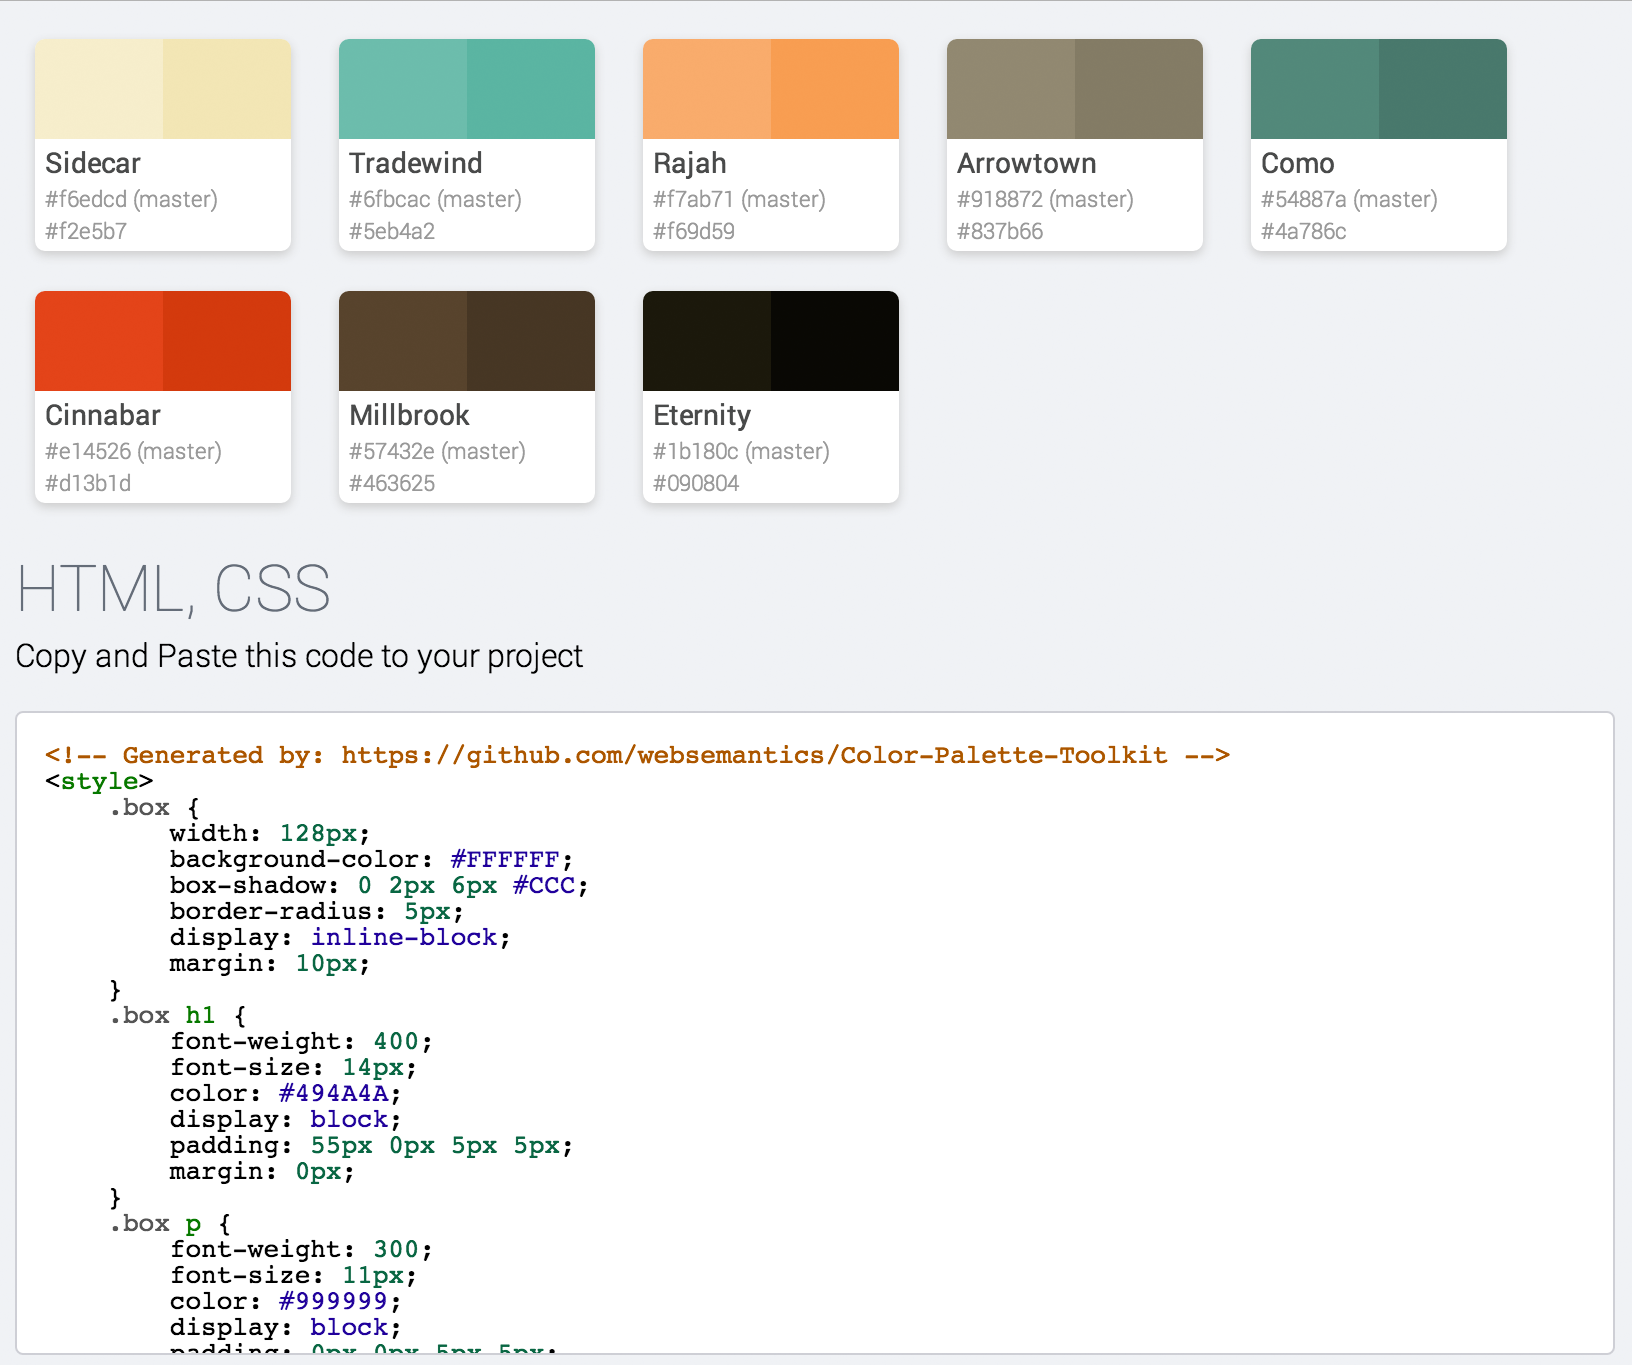
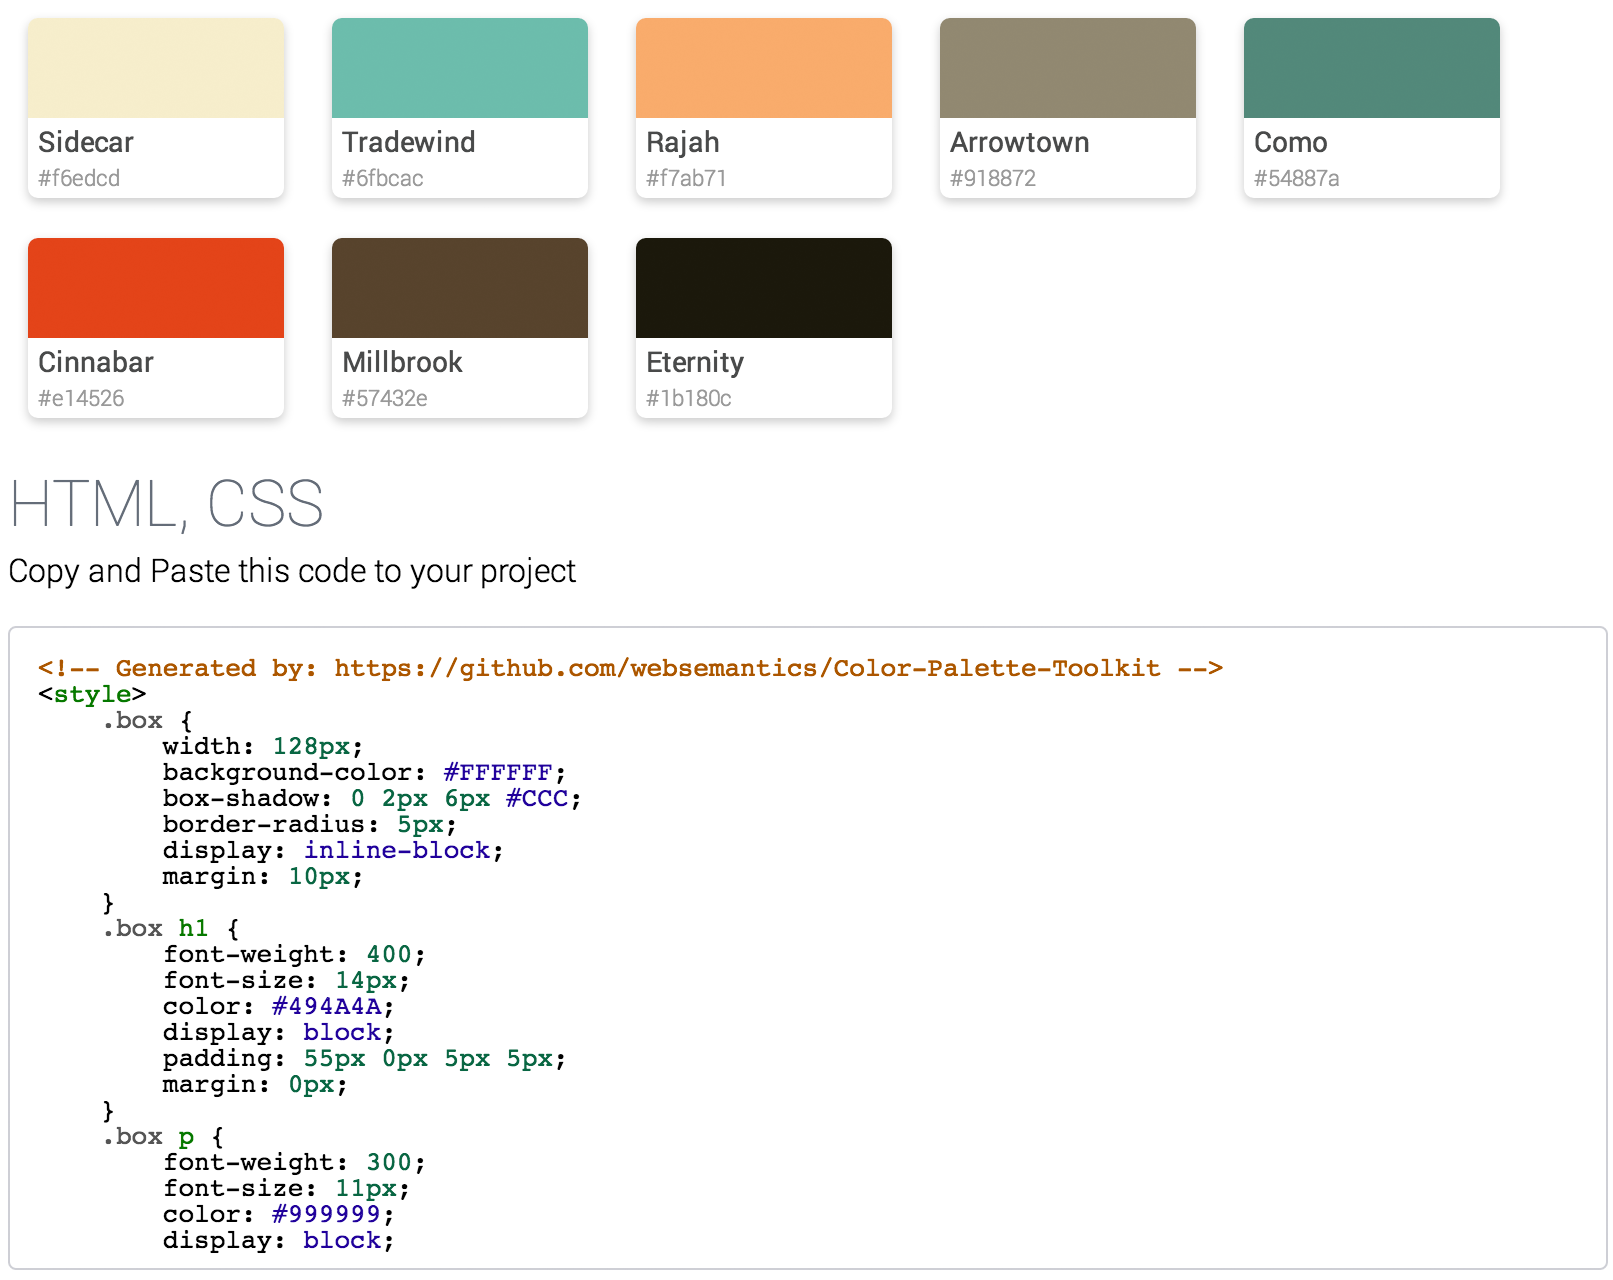
Include image

Changed region(s): [[0.0, 0.0, 0.9299, 1.0], [0.9919, 0.5, 1.0, 1.0]]

diff --git a/css/style.css b/css/style.css
@@ -47,7 +47,7 @@
 
     body {
       font-family: 'Roboto', sans-serif;
-      background-color: #F0F2F5;
+      background-color: #ffffff;
     }
 
     section.container {
@@ -85,6 +85,15 @@
       padding:0px 15px;
       margin-bottom: 10px;
     }
+
+    div.result {
+      border-radius: 5px;
+      background-color: red;
+      padding:0px 15px;
+      margin-bottom: 10px;
+    }
+
+
 
     p, form {
       padding : 10px 0px;
